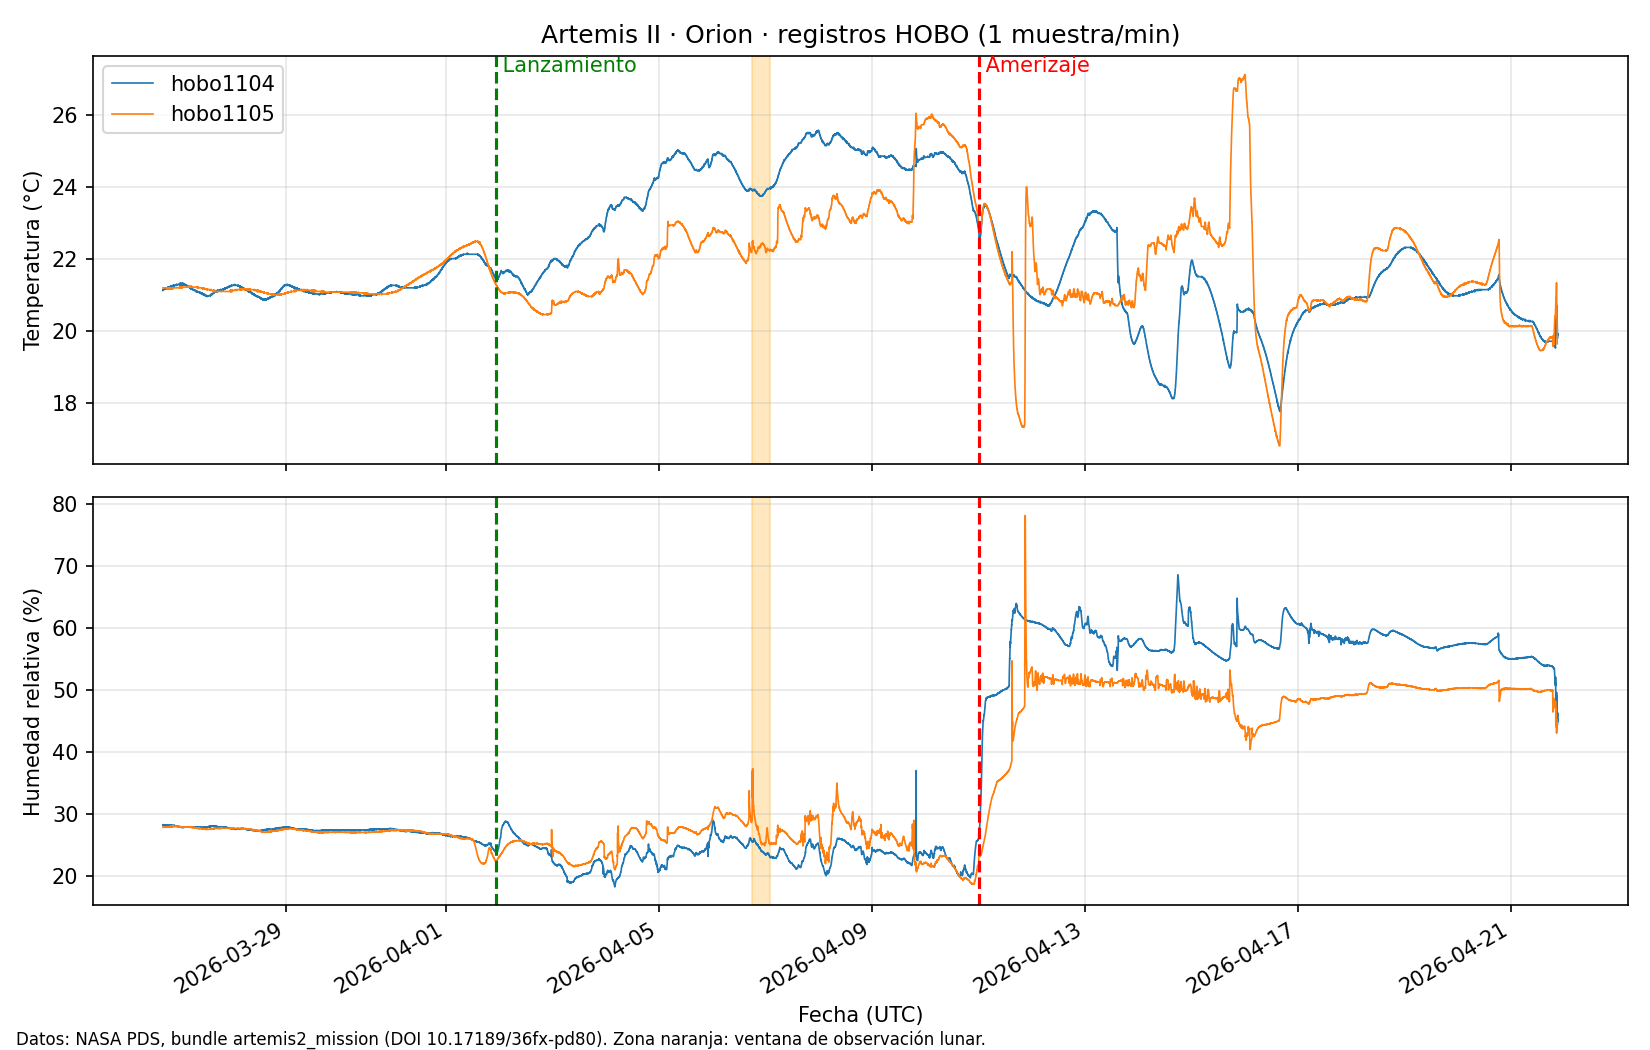
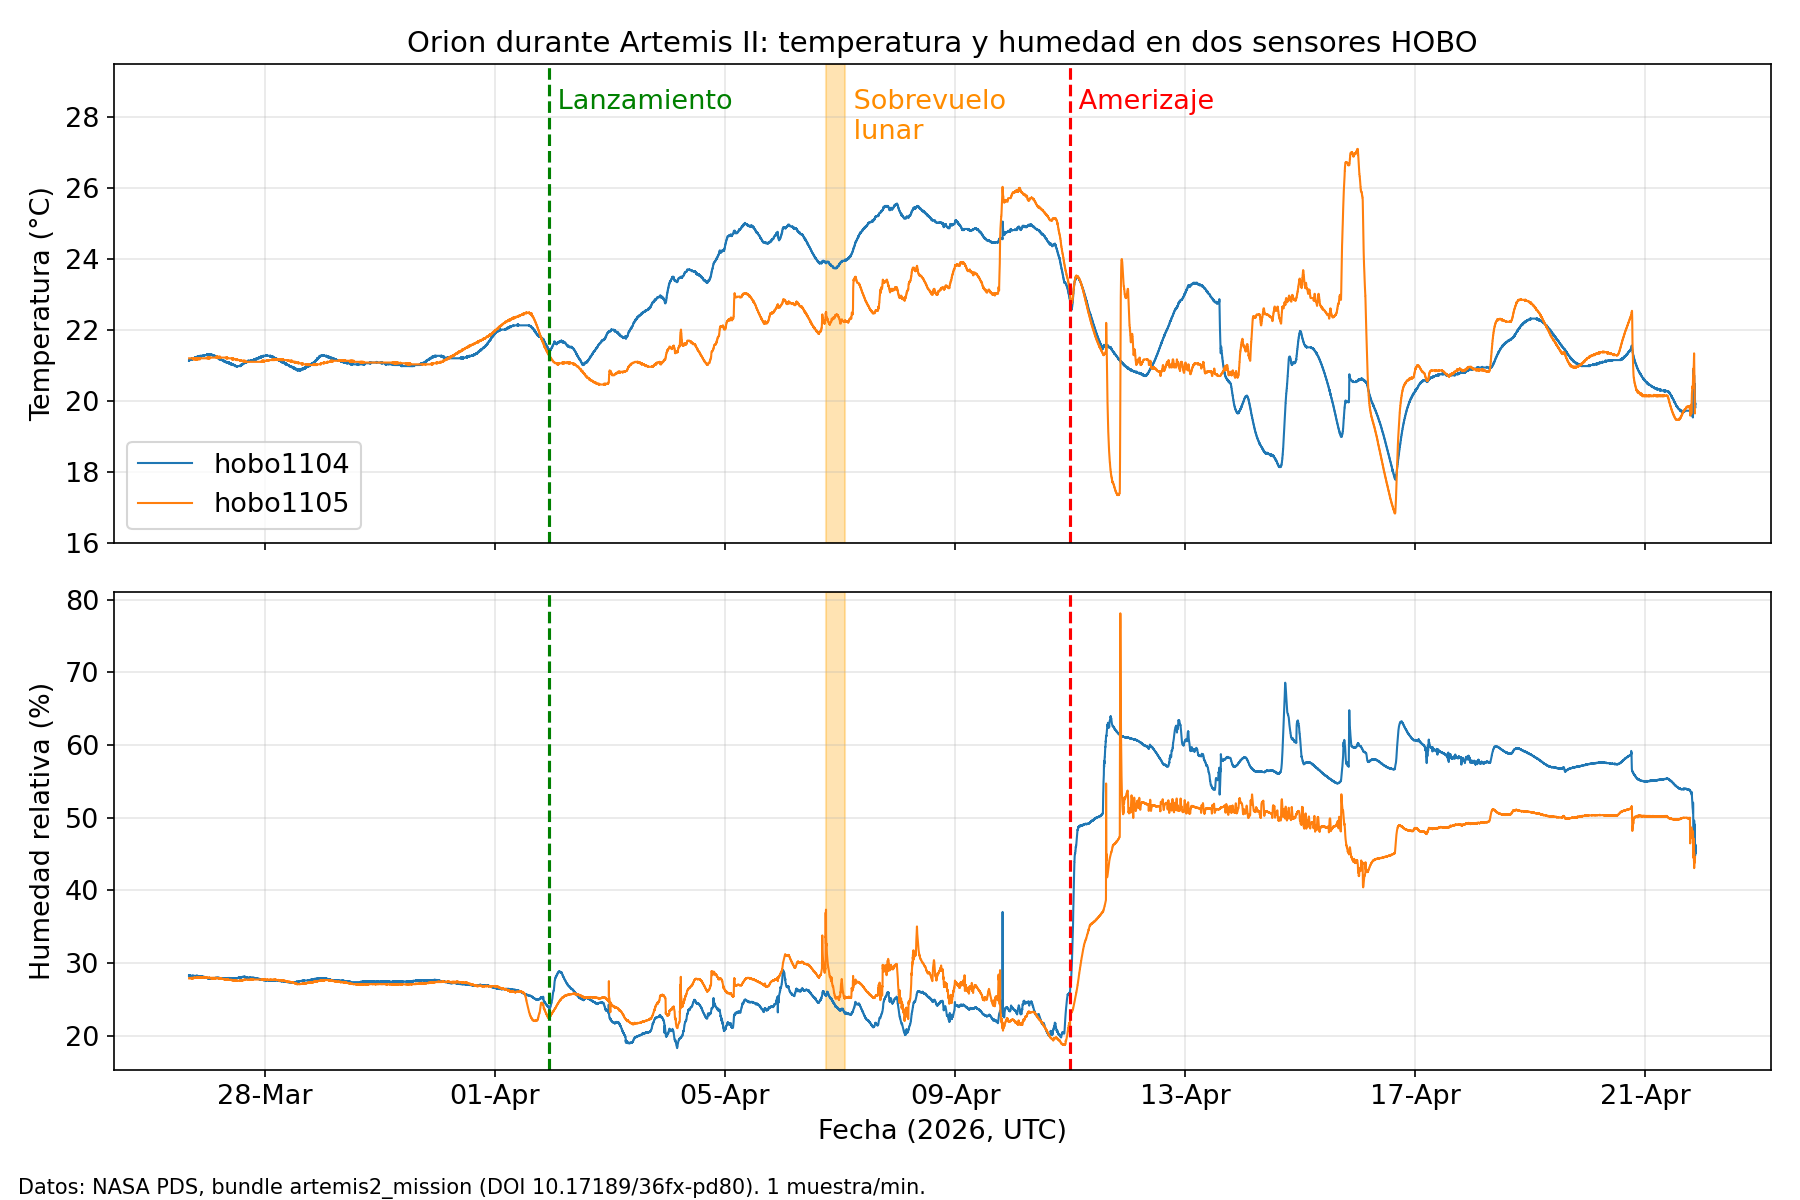
Dia 2: fig01 v2 (etiquetas y tamaño de letra para LinkedIn)

diff --git a/log.md b/log.md
@@ -19,3 +19,5 @@
 - HOBO: 2 loggers, sin huecos ni nulos; se comportan distinto en vuelo y tras amerizaje.
 - Hora HOBO validada: CDT = UTC-5, coherente con el nombre de archivo (el día de inicio del nombre está desfasado en 1).
 - Notebook 01_inventario probado.
+- Fig01 revisada: etiquetas ajustadas para lectura en móvil (v2).
+- Preguntas abiertas: ubicación de cada HOBO; causa de las excursiones del 1105 tras el amerizaje.
